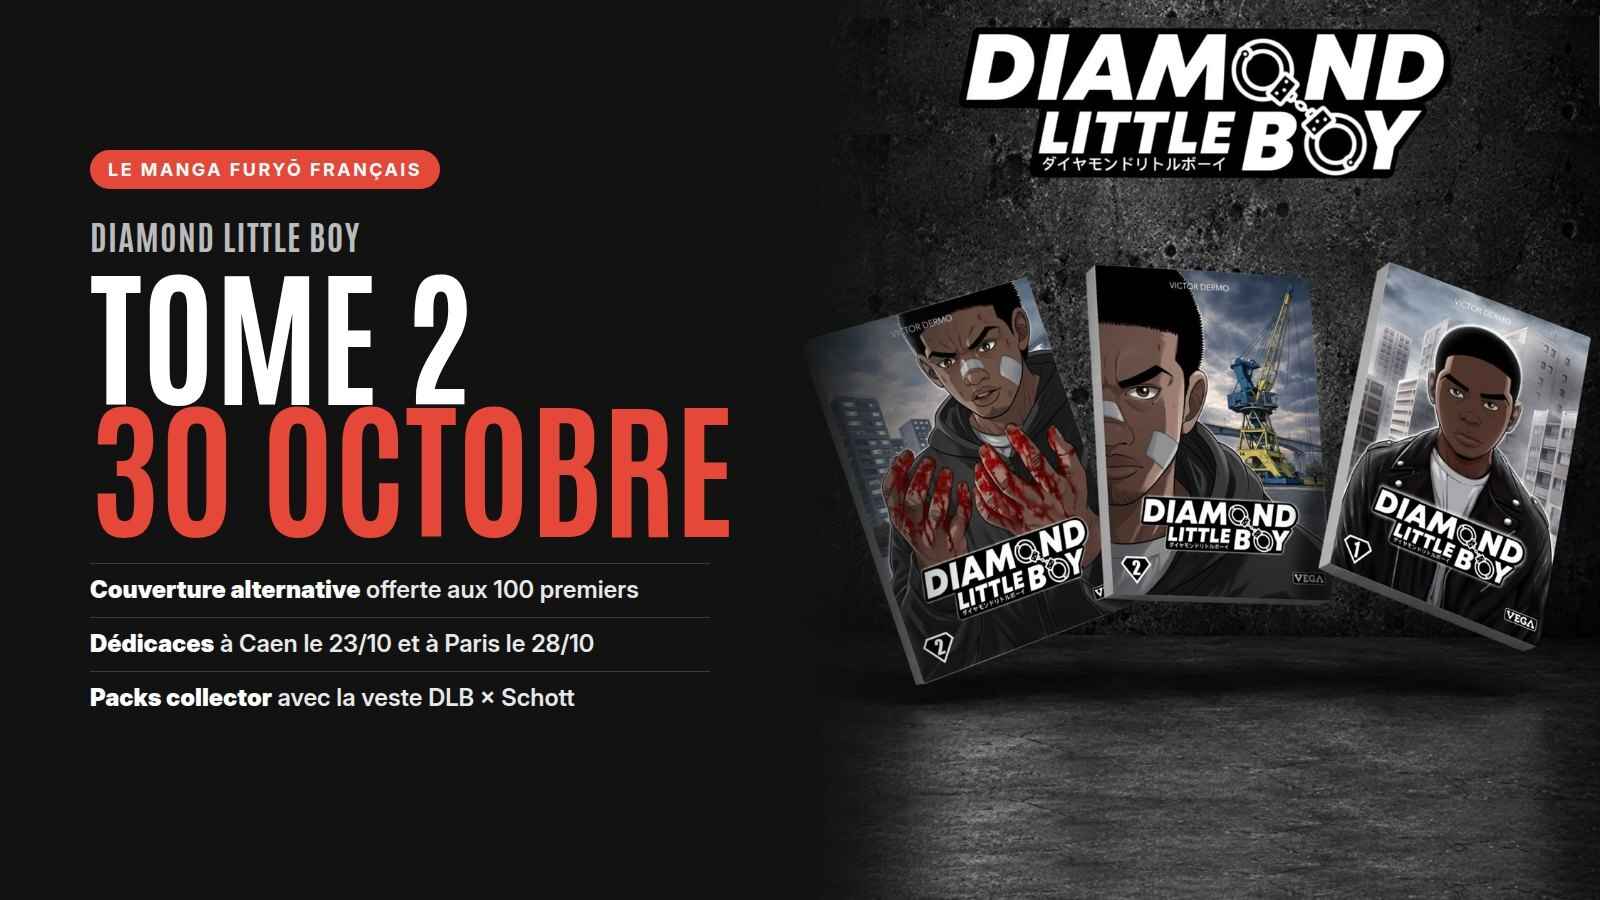
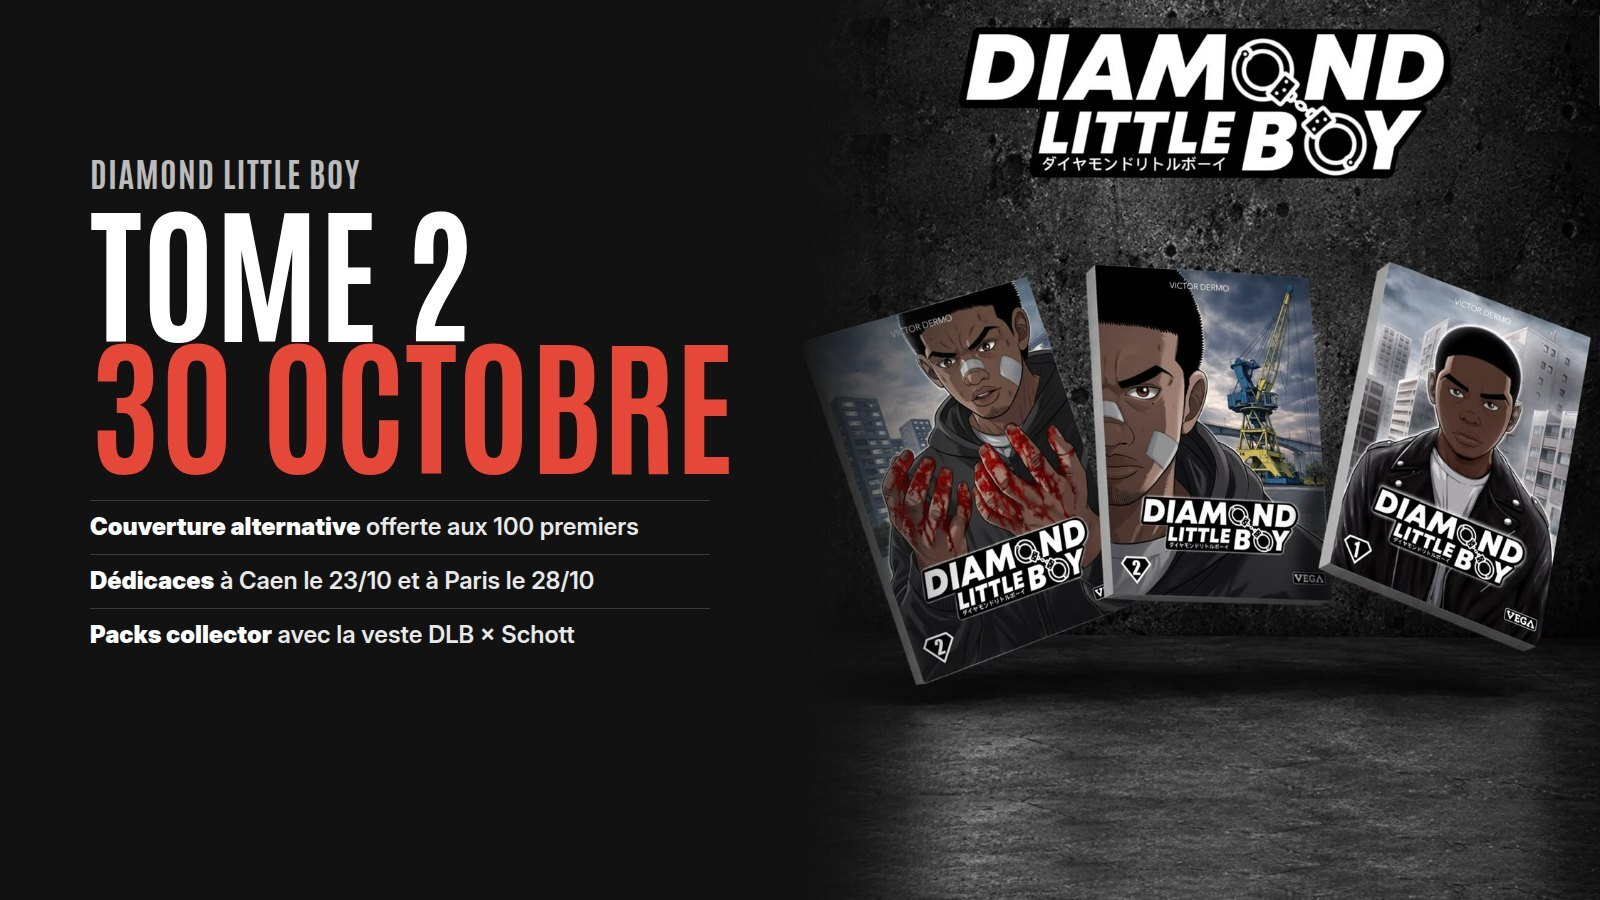
Actus : blocs « ▸ » en accordéon ; visuel DLB sans pastille
Claude-Session: https://claude.ai/code/session_01ShgbxL6GpEPzbudUpDfTjj

Changed region(s): [[0.0312, 0.1556, 0.4688, 0.8089]]

diff --git a/actus/index.html b/actus/index.html
@@ -31,7 +31,7 @@ a{color:inherit}
 .na-ht h1{margin:0;font:700 clamp(38px,11vw,56px)/.95 Antonio,"Arial Narrow",sans-serif;text-transform:uppercase;letter-spacing:.01em}
 .na-body{display:flex;flex-direction:column;gap:16px;padding:12px 20px 0}
 .na-meta{font-size:13px;color:var(--paper-3)}
-.na-text{margin:0;font-size:16.5px;line-height:1.65;color:#E4E4E8;white-space:pre-line}
+.na-text{margin:0;font-size:16.5px;line-height:1.65;color:#E4E4E8;white-space:pre-line}.na-text p{margin:0 0 1em}.na-text p:last-child{margin-bottom:0}.na-acc{background:#1C1C1E;border-radius:14px;margin:0 0 8px;white-space:normal}.na-acc+p{margin-top:1em}.na-acc summary{list-style:none;cursor:pointer;display:flex;align-items:center;gap:12px;padding:13px 16px;font-weight:700;color:#fff}.na-acc summary::-webkit-details-marker{display:none}.na-acc summary span{flex:1}.na-acc summary em{font-style:normal;font-size:13px;font-weight:600;color:#9A9AA0;white-space:nowrap}.na-acc summary em::after{content:" ▾"}.na-acc[open] summary em{font-size:0}.na-acc[open] summary em::after{font-size:13px;content:"Masquer ▴"}.na-acc>div{padding:0 16px 14px;white-space:pre-line;color:#D4D4D8;font-size:15.5px}
 .na-vid{position:relative;aspect-ratio:16/9;border-radius:16px;overflow:hidden;background:#000}.na-vid.mp4{aspect-ratio:auto;max-width:420px;margin:16px auto 0}.na-vid.mp4 video{display:block;width:100%;max-height:80vh;background:#000}.na-vid iframe{position:absolute;inset:0;width:100%;height:100%;border:0}
 .na-links{display:flex;flex-wrap:wrap;gap:8px}
 .na-fol{height:38px;padding:0 15px;border:0;border-radius:19px;display:inline-flex;align-items:center;gap:7px;background:#000;color:var(--paper);font:600 13.5px Inter,sans-serif;cursor:pointer}.na-fol svg{width:16px;height:16px}.na-fol.on{color:#AEAEB2}
@@ -261,6 +261,15 @@ body{background:#000}
       (CM.length > 2 ? '<button type="button" class="open" data-open>Afficher les ' + CM.length + " commentaires</button>" : "") + addBox() + "</section>";
   }
   // Vidéo YouTube jouée dans la page (trailer, PV d'anime…).
+  // Texte de news : un bloc qui commence par « ▸ Titre » devient un accordéon (titre visible, détail au clic).
+  // Les lignes suivantes, jusqu'à la ligne vide, forment le détail (Will, 12/10/2026).
+  function txt(t) {
+    return String(t || "").split(/\n{2,}/).map(function (b) {
+      var m = b.match(/^▸\s*(.+)(?:\n([\s\S]*))?$/);
+      if (!m) return '<p>' + esc(b) + '</p>';
+      return '<details class="na-acc"><summary><span>' + esc(m[1]) + '</span><em>Voir le détail</em></summary><div>' + esc(m[2] || "") + '</div></details>';
+    }).join("");
+  }
   function vid(u) {
     // Vidéo hébergée sur le site (.mp4, souvent verticale) : lecteur natif (Will, 12/10/2026).
     if (/\.mp4(\?|$)/i.test(String(u || ""))) return '<div class="na-vid mp4"><video src="' + esc(u) + '" controls playsinline preload="metadata"></video></div>';
@@ -289,7 +298,7 @@ body{background:#000}
       '<div class="na-ht"><span class="na-pills">' + cs.map(function (c) { return '<span class="na-pill" style="background:' + c.c + '">' + esc(c.nom) + "</span>"; }).join("") + "</span><h1>" + esc(titre) + "</h1>" +
         (N.jp ? '<span class="na-jp" lang="ja">' + esc(N.jp) + "</span>" : "") + '<span class="na-meta">' + esc(dLong(N.date) || "") + "</span></div></div>" +
       // Page news mobile, maquette A validée par Will (05/10/2026) : fond noir, barre d'actions plate, bloc Sources, stats et autres actualités en blocs.
-      '<div class="na-body"><p class="na-text">' + esc(N.texte) + "</p>" + vid(N.video) +
+      '<div class="na-body"><div class="na-text">' + txt(N.texte) + "</div>" + vid(N.video) +
       '<div class="na-seg"><button type="button" class="' + (FOLLOW ? "on" : "") + '" data-soon="suivre">' + (FOLLOW ? HEART_ON + "Suivie" : I.heart + "Suivre") + "</button>" +
         // Fiche pas encore en ligne : bouton grisé « Fiche bientôt en ligne », comme sur ordinateur (Will, 11/10/2026).
         (CTX && CTX.serie && !CTX.serie.visible ? '<span class="p off">' + I.fiche + "Fiche bientôt en ligne</span>" :
@@ -404,7 +413,7 @@ body{background:#000}
       '<a class="nd-crumb" href="/?vue=actus">← Toutes les actualités</a>' +
       '<div class="nd-tx"><span class="nd-date">' + esc(rel(N.date)) + '</span><span class="na-pills">' + cs.map(function (c) { return '<span class="na-pill" style="background:' + c.c + '">' + esc(c.nom) + "</span>"; }).join("") + "</span><h1>" + esc(titre) + "</h1>" +
       (N.jp ? '<span class="nd-jp" lang="ja">' + esc(N.jp) + "</span>" : "") + "</div></div>" +
-      '<div class="nd-grid"><div class="nd-col"><main class="nd-box nd-main"><p class="na-text">' + esc(N.texte) + "</p>" + vid(N.video) +
+      '<div class="nd-grid"><div class="nd-col"><main class="nd-box nd-main"><div class="na-text">' + txt(N.texte) + "</div>" + vid(N.video) +
       (N.src ? '<div class="nd-src"><span>Source</span><a href="' + esc(N.src) + '" target="_blank" rel="noopener">' + esc((N.srcName || "Officielle") + (handle(N.src) ? " · " + handle(N.src) : "")) + ARR + "</a></div>" : "") + acts() + "</main>" + comD() + "</div>" +
       '<aside class="nd-col">' + fiche() + dernier() + autres() + mangakas() + "</aside></div>";
   }
